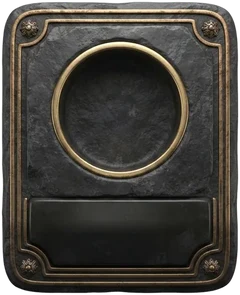
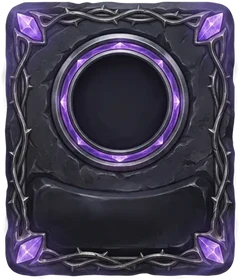
v238 : vraie tuile violette pour les compétences propres aux créatures
Claude-Session: https://claude.ai/code/session_01CUyhbiofHtX7WBrtcLZEpz

diff --git a/css/army.css b/css/army.css
@@ -2133,7 +2133,8 @@ body.battle-mode.has-subnav #view, body.battle-mode #view { padding: calc(var(--
 .dv .cb-a { aspect-ratio: .8; min-height: 0; padding: 0; border: 0; border-radius: 10px; background: none; box-shadow: none; overflow: visible; isolation: isolate; }
 .dv .cb-a::before { content: ''; position: absolute; inset: 0; z-index: -1; border-radius: 10px; background: url(../assets/ui/act-tile.webp) center / 100% 100% no-repeat; filter: drop-shadow(0 3px 5px rgba(0, 0, 0, .7)); }
 .dv .cb-a.sig::before { background-image: url(../assets/ui/act-tile-sig.webp); filter: sepia(.35) saturate(1.5) brightness(1.15) drop-shadow(0 0 8px rgba(242, 193, 78, .75)); }
-.dv .cb-a.own::before { background-image: url(../assets/ui/act-tile-own.webp); filter: sepia(1) hue-rotate(225deg) saturate(2.2) brightness(.95) drop-shadow(0 0 8px rgba(194, 102, 255, .7)); }
+.dv .cb-a.own::before { background-image: url(../assets/ui/act-tile-own.webp); filter: drop-shadow(0 0 8px rgba(194, 102, 255, .7)); }
+.dv .cb-a.own .cb-ai { width: 36%; }
 .dv .cb-a.sig, .dv .cb-a.own { background: none; box-shadow: none; animation: none; }
 .dv .cb-a.sig::after { content: ''; position: absolute; inset: -2px; z-index: -2; border-radius: 12px; box-shadow: 0 0 14px rgba(242, 193, 78, .45); animation: cbSigGlow 2.4s ease-in-out infinite; }
 .dv .cb-a .cb-ai { position: absolute; left: 50%; top: 37%; width: 44%; height: auto; aspect-ratio: 1; transform: translate(-50%, -50%); background: none; box-shadow: none; }

diff --git a/sw.js b/sw.js
@@ -1,7 +1,7 @@
 // Service worker d'ABYSSAL : l'application et les données sont mises en cache
 // pour fonctionner hors ligne après une première visite. Incrémenter VERSION à
 // chaque publication pour que les joueurs reçoivent la mise à jour.
-const VERSION = 'abyssal-v237';
+const VERSION = 'abyssal-v238';
 const ART_CACHE = 'abyssal-media';  // images du jeu : gardées entre les versions
 const FONT_CACHE = 'abyssal-fonts';
 const CORE = [

diff --git a/js/config.js b/js/config.js
@@ -1,7 +1,7 @@
 // Configuration centrale du jeu : raretés, tables de tirage, boosters,
 // économie, variantes, progression. Toute la balance se règle ici.
 
-export const VERSION = 'v237'; // même numéro que sw.js : affiché dans Réglages > À propos
+export const VERSION = 'v238'; // même numéro que sw.js : affiché dans Réglages > À propos
 
 export const RARITIES = [
   { key: 'C',  name: 'Commune',     short: 'C',  color: '#A3ADBD' },
